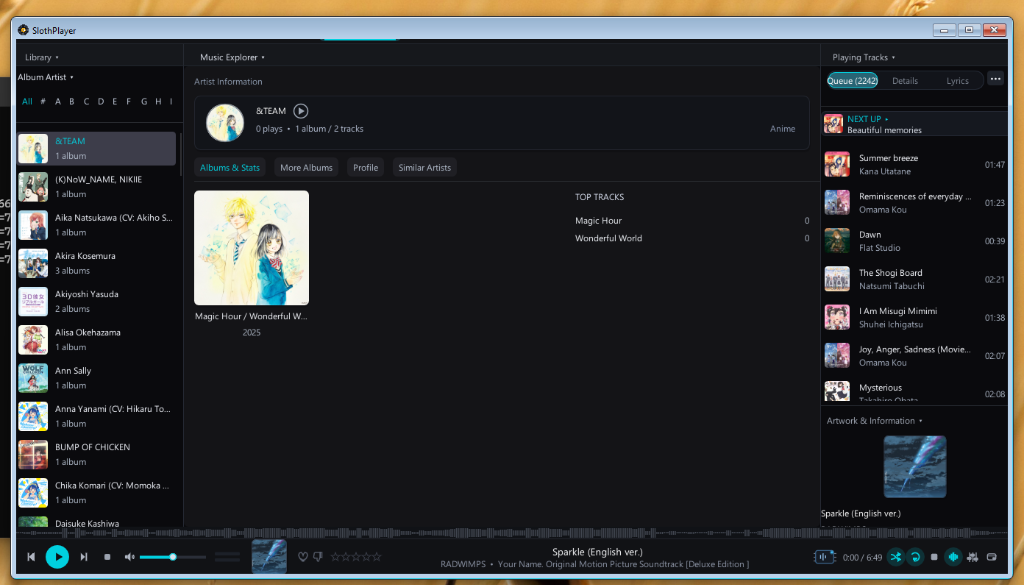
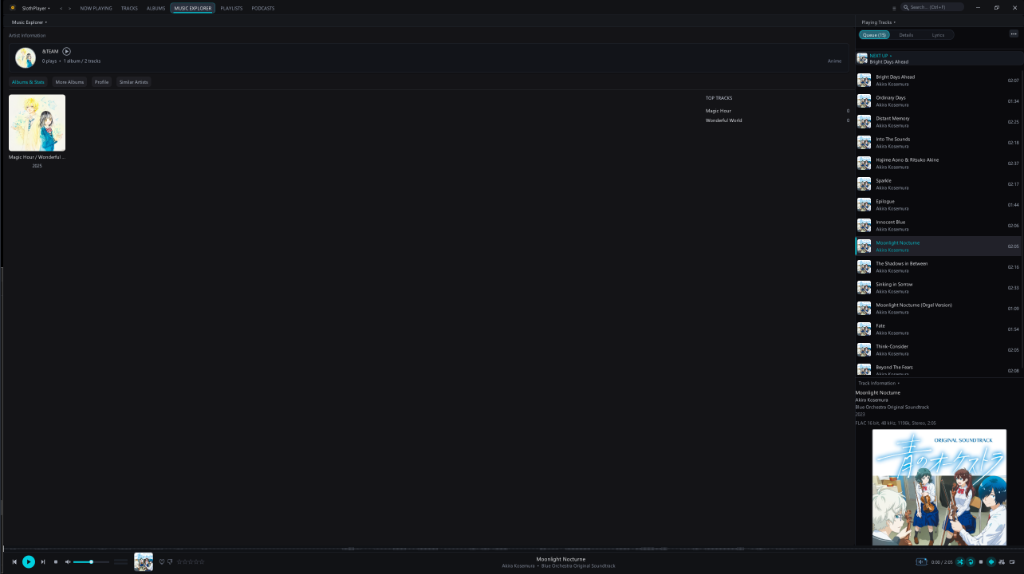
docs: replace music_explorer.png with borderless native dark UI screenshot

diff --git a/README.md b/README.md
@@ -29,7 +29,7 @@ Responsive high-fidelity album art grid with anisotropic sampling, negative LOD 
 ---
 
 ### 3. Music Explorer & Artist Overview
-In-depth artist explorer with album discography, top tracks, metadata inspection, and instant play queues.
+In-depth artist discography browser with album catalogs, top tracks, metadata inspection, and instant play queues.
 
 ![Music Explorer](docs/screenshots/music_explorer.png)
 
